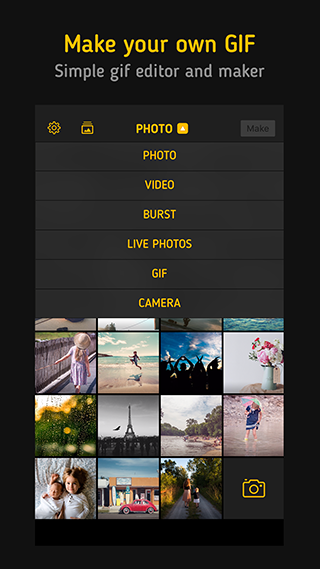
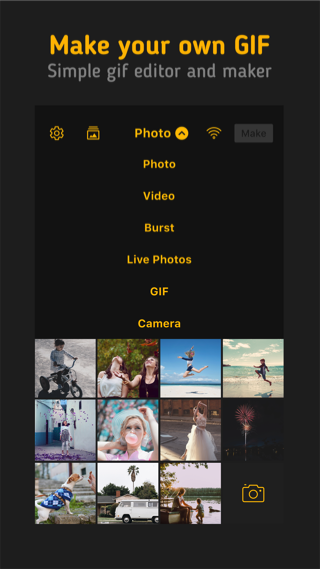
중국어 대응

diff --git a/zhhans.html b/zhhans.html
@@ -1,0 +1,210 @@
+<!DOCTYPE html>
+<html lang="en">
+<head>
+    <meta charset="UTF-8">
+    <meta name="viewport" content="width=device-width, initial-scale=1.0">
+
+    <title>GIF动态图片制作器, 照片变成gif | ImgPlay</title>
+
+    <meta name="description" content="是一款利用图片、连拍快照，视频就能轻松制作GIF的手机应用软件。">
+    <meta name="author" content="ImgBase, Inc.">
+    <meta name="keywords" content="连拍, 快照, 相片, 照片, 视频, 播放, 动画, 图像, 图片, 的, 动态, 动图, 片, 短, 免费, 闪图, 搞笑, 最好, burst, maker, photo, live, video, Live照片, gifmaker, 美图">
+    <meta name="copyright" content="ImgBase, Inc." >
+    <meta name="application-name" content="ImgPlay">
+
+    <meta property="og:url" content="http://imgplay.net"/>
+    <meta property="og:title" content="GIF动态图片制作器, 照片变成gif | ImgPlay"/>
+    <meta property="og:description" content="是一款利用图片、连拍快照，视频就能轻松制作GIF的手机应用软件。"/>
+    <meta property="og:type" content="website"/>
+    <meta property="og:site_name" content="ImgPlay"/>
+
+    <meta name="twitter:card" content="summary" />
+    <meta name="twitter:site" content="@imgplay" />
+    <meta name="twitter:title" content="ImgPlay - 是一款利用图片、连拍快照，视频就能轻松制作GIF的手机应用软件。" />
+    <meta name="twitter:description" content="是一款利用图片、连拍快照，视频就能轻松制作GIF的手机应用软件。" />
+    <meta name="twitter:image" content="static/images/icon/app_icon.png" />
+    <meta name="twitter:url" content="http://imgplay.net" />
+
+    <meta name="apple-itunes-app" content="app-id=989843523, app-argument=landing">
+    <link rel="apple-touch-icon" sizes="57x57" href="static/images/favicon.ico/apple-icon-57x57.png">
+    <link rel="apple-touch-icon" sizes="60x60" href="static/images/favicon.ico/apple-icon-60x60.png">
+    <link rel="apple-touch-icon" sizes="72x72" href="static/images/favicon.ico/apple-icon-72x72.png">
+    <link rel="apple-touch-icon" sizes="76x76" href="static/images/favicon.ico/apple-icon-76x76.png">
+    <link rel="apple-touch-icon" sizes="114x114" href="static/images/favicon.ico/apple-icon-114x114.png">
+    <link rel="apple-touch-icon" sizes="120x120" href="static/images/favicon.ico/apple-icon-120x120.png">
+    <link rel="apple-touch-icon" sizes="144x144" href="static/images/favicon.ico/apple-icon-144x144.png">
+    <link rel="apple-touch-icon" sizes="152x152" href="static/images/favicon.ico/apple-icon-152x152.png">
+    <link rel="apple-touch-icon" sizes="180x180" href="static/images/favicon.ico/apple-icon-180x180.png">
+    <link rel="icon" type="image/png" sizes="192x192"  href="static/images/favicon.ico/android-icon-192x192.png">
+    <link rel="icon" type="image/png" sizes="32x32" href="static/images/favicon.ico/favicon-32x32.png">
+    <link rel="icon" type="image/png" sizes="96x96" href="static/images/favicon.ico/favicon-96x96.png">
+    <link rel="icon" type="image/png" sizes="16x16" href="static/images/favicon.ico/favicon-16x16.png">
+    <link rel="manifest" href="static/images/favicon.ico/manifest.json">
+    <meta name="msapplication-TileColor" content="#ffffff">
+    <meta name="msapplication-TileImage" content="static/images/favicon.ico/ms-icon-144x144.png">
+    <meta name="theme-color" content="#ffffff">
+
+    <link href="static/vendor/bootstrap/dist/css/bootstrap.css" rel="stylesheet" media="screen">
+    <link href="static/vendor/font-awesome/css/font-awesome.css" rel="stylesheet">
+    <link href="static/vendor/owl-carousel/owl-carousel/owl.carousel.css" rel="stylesheet">
+    <link href="static/vendor/owl-carousel/owl-carousel/owl.theme.css" rel="stylesheet">
+    <link href="static/vendor/animate.css/animate.min.css" rel="stylesheet">
+    <link href="static/styles/landing.css" rel="stylesheet" media="screen">
+    <link href="static/styles/devices.css" rel="stylesheet" media="screen">
+    <link href="static/styles/responsive.css" rel="stylesheet" media="screen">
+
+    <link href='http://fonts.googleapis.com/css?family=Source+Sans+Pro:200,400,700' rel='stylesheet' type='text/css'>
+    <link href='http://fonts.googleapis.com/css?family=Hind:300,500' rel='stylesheet' type='text/css'>
+    <link rel="alternate" hreflang="en" href="/index.html" />
+    <link rel="alternate" hreflang="ja" href="/ja.html" />
+    <script>
+        var language = window.navigator.userLanguage || window.navigator.language;
+        if (language.toLocaleUpperCase() == "JA-JP" || language.toLocaleUpperCase() == "JA") {
+            window.location = "/ja.html";
+        }
+
+        (function(i,s,o,g,r,a,m){i['GoogleAnalyticsObject']=r;i[r]=i[r]||function(){
+        (i[r].q=i[r].q||[]).push(arguments)},i[r].l=1*new Date();a=s.createElement(o),
+        m=s.getElementsByTagName(o)[0];a.async=1;a.src=g;m.parentNode.insertBefore(a,m)
+        })(window,document,'script','//www.google-analytics.com/analytics.js','ga');
+
+        ga('create', 'UA-51541531-9', 'auto');
+        ga('send', 'pageview');
+    </script>
+</head>
+
+<body data-spy="scroll" data-target="#main-navbar" data-offset="50"><!-- Data-target for navigation -->
+
+<!-- Landing section -->
+<section id="landing-main" class="landing-auto bg-landing-photo relative" data-stellar-background-ratio="0.5">
+    <div class="landing">
+        <div class="container">
+            <div class="row">
+
+                <!-- Device -->
+                <div class="col-md-5 col-xs-12">
+                    <div id="carousel-device-ios" class="carousel-device device-mobile ios-iphone6-gold carousel slide" data-pause="true">
+                        <div class="carousel-inner carousel-inner-device img-screen-wrapper">
+                            <video id="tutorialVideo" width="100%" height= "100%" src="static/video/tutorial_zhhans.mp4" poster="static/video/preview_zhhans.png" preload autoplay loop muted proload>
+                        </div>
+                    </div>
+                </div><!-- /Device -->
+
+                <div class="col-md-7 col-xs-12 main-app-description right-side margin-vertical">
+                    <div class="app-icon">
+                        <img src="static/images/icon/app_icon.png" alt="App icon">
+                    </div>
+                    <p style="line-height:10px;"></p>
+                    <h1 class="main-title text-white">ImgPlay <p class="text-white" style="line-height:23px;"><font size ="6">GIF Maker</font></p></h1>
+                    <div class="clearfix"></div>
+
+                    <p class="main-description text-white">是一款利用图片、连拍快照，视频就能轻松制作GIF的手机应用软件。通过这款软件，大家可以切身感受拍照片和视频时的精彩瞬间。现在，就拿ImgPlay创建属于自己的GIF动态闪图，和大家一起欣赏和分享吧！</p>
+                    <p class="available-device text-white">Available for <i class="fa fa-tablet"></i> <i class="fa fa-mobile"></i></p>
+                    <div class="group-inline">
+                        <a href="https://itunes.apple.com/app/apple-store/id989843523?pt=100862818&ct=landingpage&mt=8" target="_blank"><div class="btn-store btn-store-ios-white"></div></a>
+                        <a href="https://play.google.com/store/apps/details?id=me.imgbase.imgplay.android&hl=zh-Hans" target="_blank"><div class="btn-store btn-store-android-white"></div></a>
+                    </div>
+                    <p class="copyrights-landing text-white">© <a href="http://imgbase.me">ImgBase, Inc.</a>, 2017. All rights reserved.</p>
+                </div>
+
+            </div>
+        </div>
+    </div>
+
+</section><!-- /Landing section -->
+
+<!-- Features -->
+<section id="features" class="section-color">
+    <div class="container">
+      <div class="row">
+          <div class="col-md-4 margin-vertical">
+              <img style="display:block;margin:0 auto;" src="static/images/screenshots/zhhans/01.png" />
+          </div>
+          <div class="col-md-4 margin-vertical">
+              <img style="display:block;margin:0 auto;" src="static/images/screenshots/zhhans/02.png" />
+          </div>
+          <div class="col-md-4 margin-vertical">
+              <img style="display:block;margin:0 auto;" src="static/images/screenshots/zhhans/03.png" />
+          </div>
+
+      </div>
+      <div class="row">
+          <div class="col-md-6 margin-vertical">
+              <img style="display:block;margin:0 auto;" src="static/images/screenshots/zhhans/04.png" />
+          </div>
+          <div class="col-md-6 margin-vertical">
+              <img style="display:block;margin:0 auto;" src="static/images/screenshots/zhhans/05.png" />
+          </div>
+      </div><!-- /Simple features section -->
+    </div>
+</section><!-- /Features -->
+
+<!-- Section with reviews, app market buttons, subscribe -->
+
+<section class="section-color">
+    <div class="container">
+        <div class="row">
+            <div class="col-xs-12 text-center">
+                <!-- App Marker buttons -->
+
+                <div class="group-inline" style="margin-top:20px;">
+                    <a href="https://itunes.apple.com/app/apple-store/id989843523?pt=100862818&ct=landingpage&mt=8" target="_blank"><div class="btn-store btn-store-ios-white"></div></a>
+                    <a href="https://play.google.com/store/apps/details?id=me.imgbase.imgplay.android&hl=en" target="_blank"><div class="btn-store btn-store-android-white"></div></a>
+                </div>
+
+                <!-- Social icons -->
+                <ul class="social-icons inverse" data-wow-offset="100">
+                    <li class="facebook"><a href="https://www.facebook.com/imgplayapp"><i class="fa fa-facebook"></i></a></li>
+                    <li class="twitter"><a href="https://twitter.com/imgplay"><i class="fa fa-twitter"></i></a></li>
+                    <li class="instagram"><a href="https://instagram.com/imgplay"><i class="fa fa-instagram"></i></a></li>
+                </ul>
+
+
+            </div>
+        </div>
+    </div>
+</section><!-- /Section with reviews, app market buttons, subscribe -->
+
+<!-- Footer -->
+<section class="footer">
+    <h6 class="sr-only">Footer</h6>
+    <div class="container">
+        <div class="row">
+            <div class="col-xs-12">
+                <div class="group-inline">
+                    <div class="footer-copyrights">© <a href="http://team.artrow.net/">ImgBase, Inc.</a> 2017</div>
+                    <ul class="footer-menu">
+                        <li><a href="http://imgbase.me/">关于我们</a></li>
+                        <li><a href="http://imgbase.github.io/imgplay/help/zhhans.html">常问问题</a></li>
+                        <li><a href="mailto:hello@imgbase.me">联系我们</a></li>
+                        <li><a href="/privacy/index.html">隐私政策</a></li>
+                        <li><a href="/presskit.zip">新闻资料袋</a></li>
+                    </ul>
+                    <ul class="footer-menu">
+                        <li><a href="https://twitter.com/imgplay">Twitter</a></li>
+                        <li><a href="https://instagram.com/imgplay">Instagram</a></li>
+                        <li><a href="https://www.facebook.com/imgplayapp">Facebook</a></li>
+                    </ul>
+                    <div class="footer-last">
+                        <ul class="footer-menu">
+                            <li><a href="#landing-main" class="js-feature-scroll">回到顶端</a></li>
+                        </ul>
+                    </div>
+                </div>
+            </div>
+        </div>
+    </div>
+</section><!-- /Footer -->
+
+<script>
+    var userAgent = navigator.userAgent || navigator.vendor || window.opera;
+
+    if( userAgent.match(/iPad/i) || userAgent.match(/iPhone/i) || userAgent.match(/iPod/i) || userAgent.match( /Android/i )){
+        document.getElementById("tutorialVideo").controls = true;
+    } else {
+        document.getElementById("tutorialVideo").controls = false;
+    }
+
+</script>
+</body>
+</html>

diff --git a/index.html b/index.html
@@ -57,10 +57,14 @@
     <link href='http://fonts.googleapis.com/css?family=Hind:300,500' rel='stylesheet' type='text/css'>
     <link rel="alternate" hreflang="en" href="/index.html" />
     <link rel="alternate" hreflang="ja" href="/ja.html" />
+    <link rel="alternate" hreflang="zh-Hans" href="/zhhans.html" />
+    <link rel="alternate" hreflang="zh-Hant" href="/zhhans.html" />
     <script>
         var language = window.navigator.userLanguage || window.navigator.language;
         if (language.toLocaleUpperCase() == "JA-JP" || language.toLocaleUpperCase() == "JA") {
             window.location = "/ja.html";
+        } else if (language.toLocaleUpperCase() == "ZH-CN" || language.toLocaleUpperCase() == "ZH-HK" || language.toLocaleUpperCase() == "ZH-SG" || language.toLocaleUpperCase() == "ZH-TW") {
+            window.location = "/zhhans.html";
         }
 
         (function(i,s,o,g,r,a,m){i['GoogleAnalyticsObject']=r;i[r]=i[r]||function(){
@@ -85,7 +89,7 @@
                 <div class="col-md-5 col-xs-12">
                     <div id="carousel-device-ios" class="carousel-device device-mobile ios-iphone6-gold carousel slide" data-pause="true">
                         <div class="carousel-inner carousel-inner-device img-screen-wrapper">
-                            <video id="tutorialVideo" width="100%" height= "100%" src="static/video/tutorial.mp4" poster="static/video/preview.png" preload autoplay loop muted proload>
+                            <video id="tutorialVideo" width="100%" height= "100%" src="static/video/tutorial_en.mp4" poster="static/video/preview_en.png" preload autoplay loop muted proload>
                         </div>
                     </div>
                 </div><!-- /Device -->

diff --git a/static/styles/landing.css b/static/styles/landing.css
@@ -308,7 +308,7 @@ a.text-white:focus {
   background-color: #647684;
 }
 .bg-landing-photo {
-  background: #1f1f1f;
+  background: #111111;
   -webkit-background-size: cover;
   -moz-background-size: cover;
   -o-background-size: cover;
@@ -439,10 +439,10 @@ section.landing-auto {
 /* 04. Section styles and settings
 -------------------------------------------------------------------*/
 .section-color {
-  background-color: #1f1f1f;
+  background-color: #111111;
 }
 .section-video {
-  background: #1f1f1f;
+  background: #111111;
   -webkit-background-size: cover;
   -moz-background-size: cover;
   -o-background-size: cover;
@@ -1853,7 +1853,7 @@ ul.social-icons li.google-plus:hover a {
 /* 08. Footer
 -------------------------------------------------------------------*/
 .footer {
-  background: #333333;
+  background: #222222;
   color: #808080;
 }
 .footer a:hover {

diff --git a/ja.html b/ja.html
@@ -84,7 +84,7 @@
                 <div class="col-md-5 col-xs-12">
                     <div id="carousel-device-ios" class="carousel-device device-mobile ios-iphone6-gold carousel slide" data-pause="true">
                         <div class="carousel-inner carousel-inner-device img-screen-wrapper">
-                            <video id="tutorialVideo" width="100%" height= "100%" src="static/video/tutorial.mp4" poster="static/video/preview.png" preload autoplay loop muted proload>
+                            <video id="tutorialVideo" width="100%" height= "100%" src="static/video/tutorial_en.mp4" poster="static/video/preview_en.png" preload autoplay loop muted proload>
                         </div>
                     </div>
                 </div><!-- /Device -->
